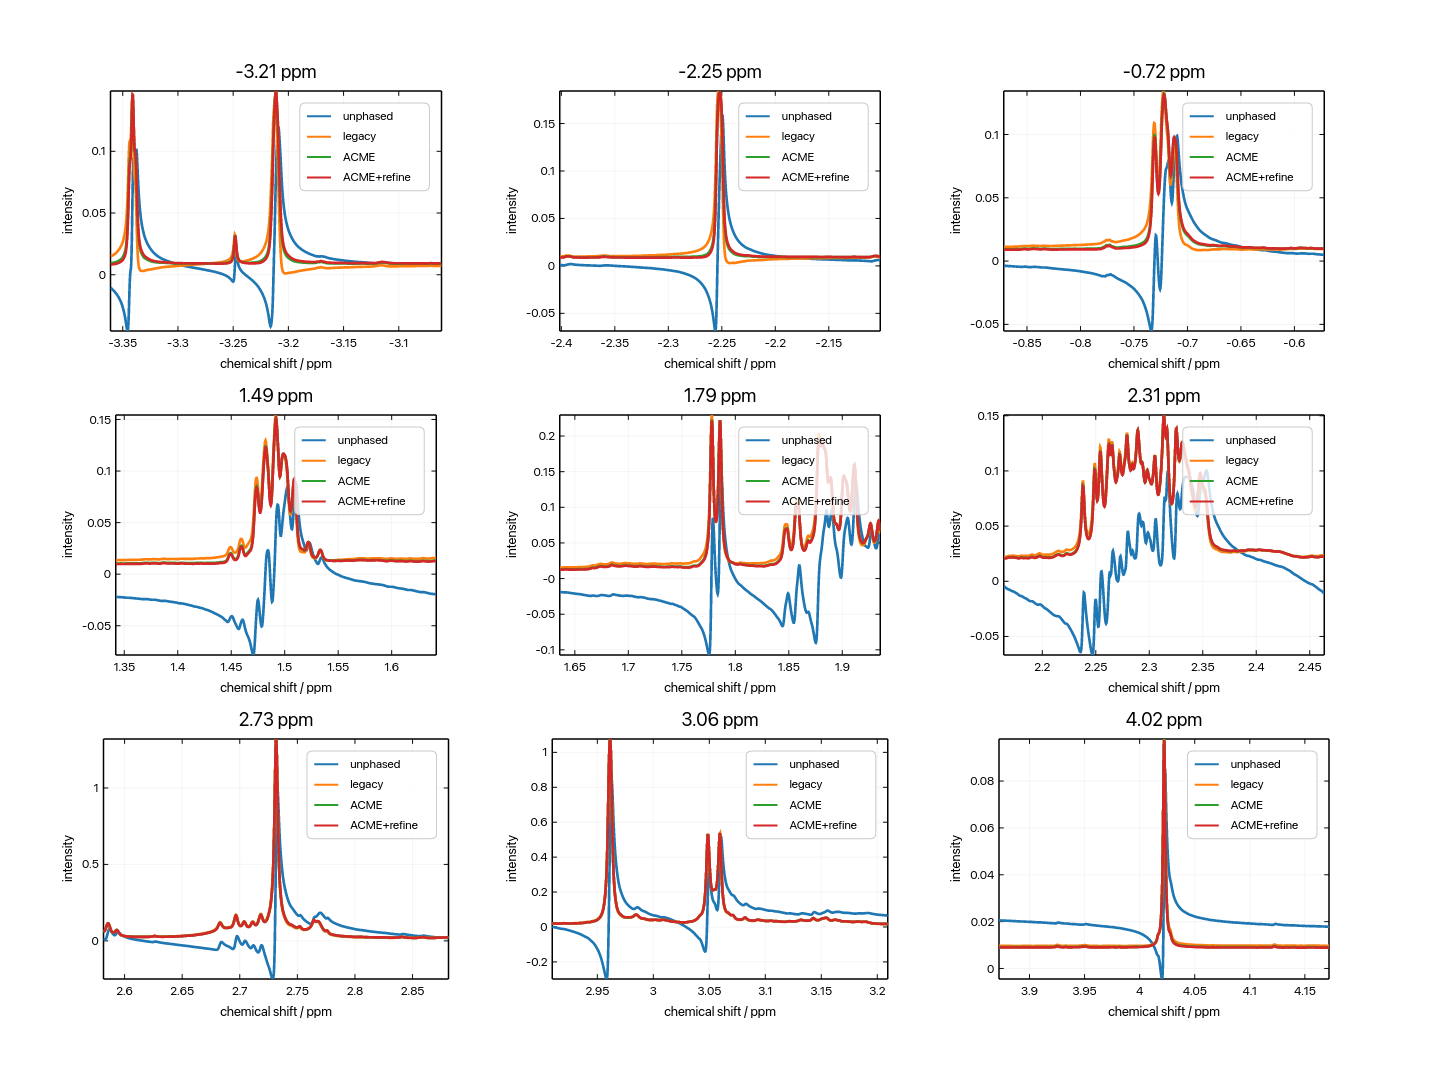
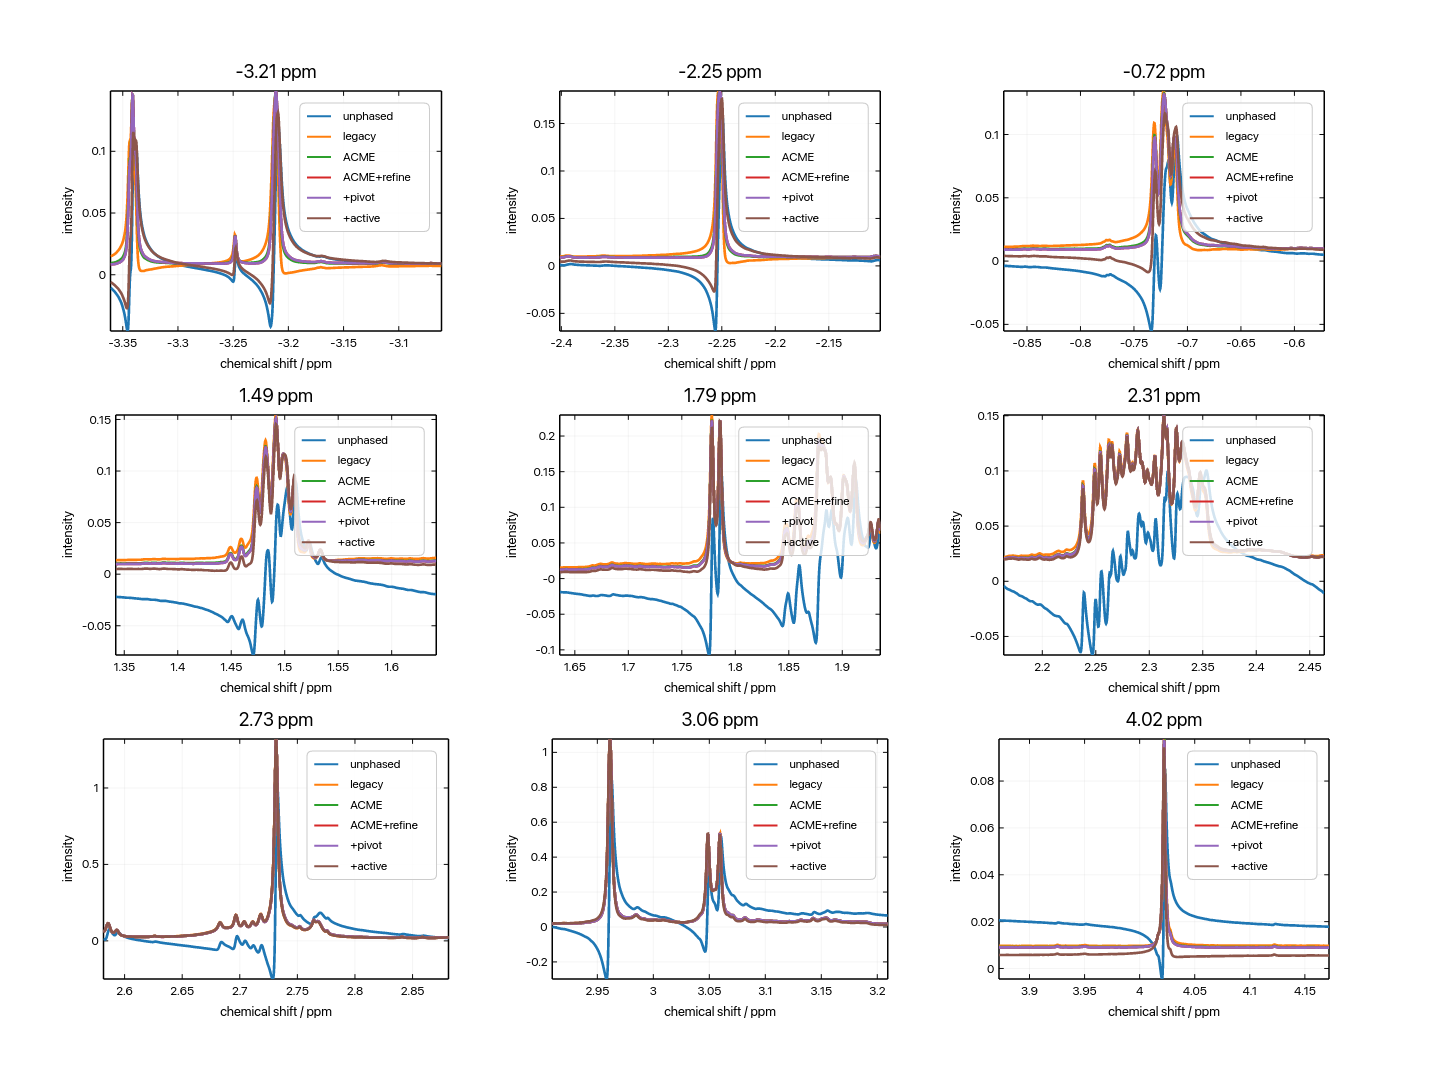
feat(examples): show pivot + active-region variants in comparison
Extend the auto-phase comparison and peak-zoom plots with two new
ACME traces: pivot at 2.7 ppm (anchored at the strongest peak) and
pivot + active region 1.0-3.5 ppm (multiplet-only cost). Each trace
is labeled with its (ph0, ph1).

The pivot variant matches ACME+refine to within 1.5 deg on this
clean spectrum, while the active-region variant lands on a very
different ph1 (-77 vs -5) because the entropy of the multiplet
window favors a steeper linear slope. On the peak-zoom grid all
five phased traces overlap to the eye, illustrating that on this
fixture the new knobs are tools for spectra where they matter
(off-center pivots, partial-region phasing), not blanket wins.

diff --git a/examples/ruviz-processing/src/main.rs b/examples/ruviz-processing/src/main.rs
@@ -196,6 +196,20 @@ mod ruviz_example {
         .spectrum;
         let acme_refined =
             auto_phase_correct(&unphased, AutoPhaseOptions::default())?.spectrum;
+        let pivot_ppm = 2.7_f64;
+        let active_region = (1.0_f64, 3.5_f64);
+        let acme_pivot = auto_phase_correct(
+            &unphased,
+            AutoPhaseOptions::default().with_pivot_value(pivot_ppm),
+        )?
+        .spectrum;
+        let acme_active = auto_phase_correct(
+            &unphased,
+            AutoPhaseOptions::default()
+                .with_pivot_value(pivot_ppm)
+                .with_active_region(active_region.0, active_region.1),
+        )?
+        .spectrum;
 
         let peaks = pick_peaks(
             &acme_refined,
@@ -264,7 +278,17 @@ mod ruviz_example {
                         hi,
                     ),
                 )
-                .label("ACME+refine");
+                .label("ACME+refine")
+                .line(
+                    &slice_window(&acme_pivot.x.values, lo, hi),
+                    &slice_window_y(&acme_pivot.x.values, &acme_pivot.intensities, lo, hi),
+                )
+                .label("+pivot")
+                .line(
+                    &slice_window(&acme_active.x.values, lo, hi),
+                    &slice_window_y(&acme_active.x.values, &acme_active.intensities, lo, hi),
+                )
+                .label("+active");
             figure = figure.subplot_at(index, panel.into())?;
         }
 
@@ -307,6 +331,9 @@ mod ruviz_example {
             .normalize_max_abs();
         let unphased = complex_recipe.apply(raw)?;
 
+        let pivot_ppm = 2.7_f64;
+        let active_region = (1.0_f64, 3.5_f64);
+
         let legacy = AutoPhaseOptions::default()
             .with_cost(AutoPhaseCost::LegacyImagNegArea)
             .with_refine(false);
@@ -314,23 +341,23 @@ mod ruviz_example {
             .with_cost(AutoPhaseCost::AcmeEntropy)
             .with_refine(false);
         let acme_refined = AutoPhaseOptions::default();
+        let acme_pivot = AutoPhaseOptions::default().with_pivot_value(pivot_ppm);
+        let acme_active = AutoPhaseOptions::default()
+            .with_pivot_value(pivot_ppm)
+            .with_active_region(active_region.0, active_region.1);
 
         let legacy_result = auto_phase_correct(&unphased, legacy)?;
         let acme_grid_result = auto_phase_correct(&unphased, acme_grid)?;
         let acme_refined_result = auto_phase_correct(&unphased, acme_refined)?;
+        let acme_pivot_result = auto_phase_correct(&unphased, acme_pivot)?;
+        let acme_active_result = auto_phase_correct(&unphased, acme_active)?;
 
-        let legacy_label = format!(
-            "legacy ({:.1}\u{00B0}/{:.1}\u{00B0})",
-            legacy_result.zero_order_deg, legacy_result.first_order_deg
-        );
-        let acme_grid_label = format!(
-            "ACME grid ({:.1}\u{00B0}/{:.1}\u{00B0})",
-            acme_grid_result.zero_order_deg, acme_grid_result.first_order_deg
-        );
-        let acme_refined_label = format!(
-            "ACME + refine ({:.1}\u{00B0}/{:.1}\u{00B0})",
-            acme_refined_result.zero_order_deg, acme_refined_result.first_order_deg
-        );
+        let fmt_label = |stem: &str, r: &rspin_processing::AutoPhaseResult| {
+            format!(
+                "{stem} ({:.1}\u{00B0}/{:.1}\u{00B0})",
+                r.zero_order_deg, r.first_order_deg
+            )
+        };
 
         Plot::new()
             .title("Auto-Phase Comparison (Varian/Agilent 1H)")
@@ -344,20 +371,28 @@ mod ruviz_example {
                 &legacy_result.spectrum.x.values,
                 &legacy_result.spectrum.intensities,
             )
-            .label(&legacy_label)
+            .label(&fmt_label("legacy", &legacy_result))
             .line(
                 &acme_grid_result.spectrum.x.values,
                 &acme_grid_result.spectrum.intensities,
             )
-            .label(&acme_grid_label)
+            .label(&fmt_label("ACME grid", &acme_grid_result))
             .line(
                 &acme_refined_result.spectrum.x.values,
                 &acme_refined_result.spectrum.intensities,
             )
-            .label(&acme_refined_label)
-            .save(path_to_str(
-                &output_dir.join("auto_phase_comparison.png"),
-            )?)?;
+            .label(&fmt_label("ACME + refine", &acme_refined_result))
+            .line(
+                &acme_pivot_result.spectrum.x.values,
+                &acme_pivot_result.spectrum.intensities,
+            )
+            .label(&fmt_label("+ pivot 2.7 ppm", &acme_pivot_result))
+            .line(
+                &acme_active_result.spectrum.x.values,
+                &acme_active_result.spectrum.intensities,
+            )
+            .label(&fmt_label("+ active 1-3.5 ppm", &acme_active_result))
+            .save(path_to_str(&output_dir.join("auto_phase_comparison.png"))?)?;
 
         Ok(())
     }